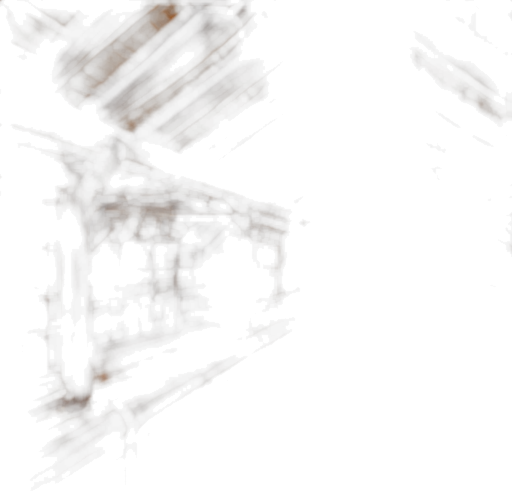
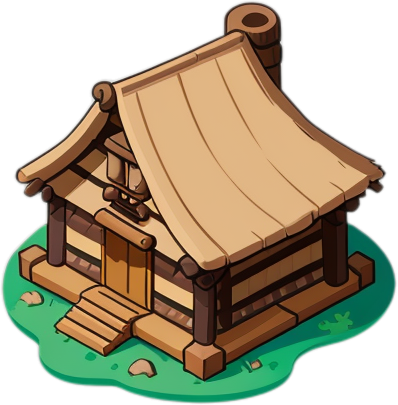
feat: proto2d housing v2 스프라이트 — 스타일 통일 longhouse·warehouse 교체
assetgen 스타일 잠금 체계(variouscafe/assetgen#2)로 재생성한 v2 산출:
- longhouse seed 20261103(점수 0.188)·warehouse seed 20261105(0.345)
  — 구 산출(흐릿 스케치·포토리얼)을 레퍼런스 핸드페인트 화풍으로 교체
- live_props.rs 종횡비 보정: 신규 캔버스 398×405·398×438에 맞춰
  custom 288×293(발판 3×2)·344×379(발판 3×3)

검증: 로컬 Chrome 부트·컬러 11,167종 무열화 → terrafolk-2d 배포 →
프로덕션 부트 확인. 카탈로그 등록(assetgen id 70e2e8d7·836289b7).

diff --git a/proto2d/src/net/live_props.rs b/proto2d/src/net/live_props.rs
@@ -137,13 +137,13 @@ fn visual(kind: &str, species: &str, st: &ResState) -> Option<Visual> {
             match bld_type {
                 "WINDBREAK" => Some(v("props/windbreak.png", 90.0)),
                 "LONGHOUSE" => Some(Visual {
-                    // 생성 스프라이트 종횡비(512×491) 보존 — 발판 3×2 위 비율
-                    custom: Some(Vec2::new(288.0, 276.0)),
+                    // 생성 스프라이트 종횡비(398×405) 보존 — 발판 3×2 위 비율
+                    custom: Some(Vec2::new(288.0, 293.0)),
                     ..v("props/longhouse.png", 170.0)
                 }),
                 "WAREHOUSE" => Some(Visual {
-                    // 477×390 종횡비 보존 — 발판 3×3
-                    custom: Some(Vec2::new(344.0, 281.0)),
+                    // 398×438 종횡비 보존 — 발판 3×3
+                    custom: Some(Vec2::new(344.0, 379.0)),
                     ..v("props/warehouse.png", 200.0)
                 }),
                 _ => Some(v("props/hut.png", 150.0)),
